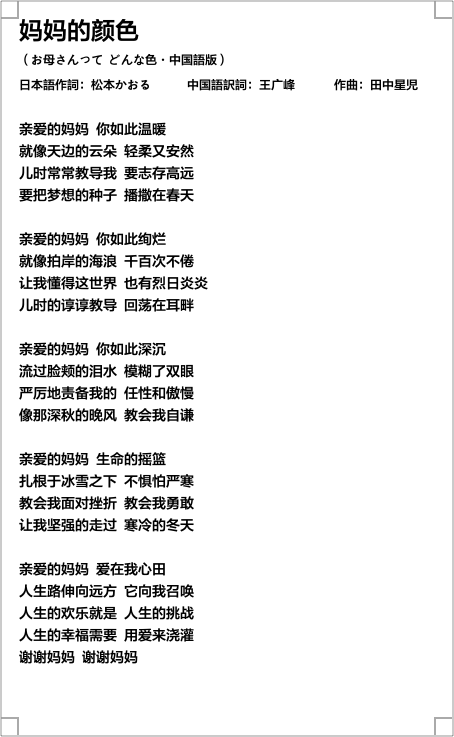
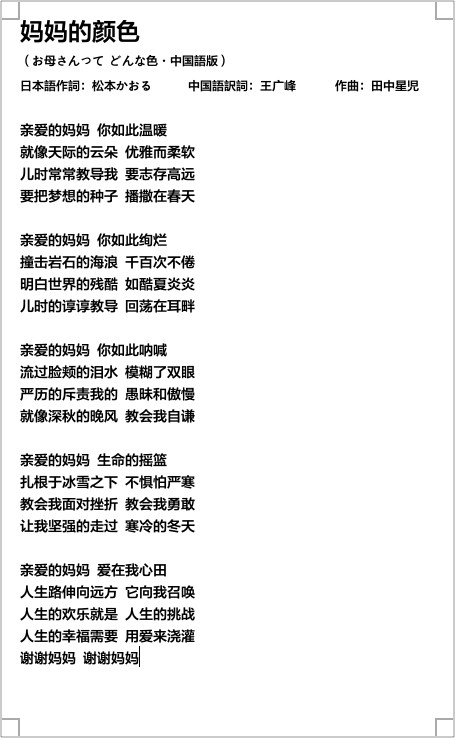
Fix visitor counter and update static assets

diff --git a/_includes/footer.html b/_includes/footer.html
@@ -52,14 +52,14 @@
       style="width: 12px; height: 12px"
     />&nbsp;
     <span id="busuanzi_container_site_uv"
-      ><span id="busuanzi_value_site_uv"></span>次</span
+      ><span id="busuanzi_site_uv">加载中...</span>次</span
     >
     |
     <img
       src="{{ site.baseurl }}/images/config/eye.png"
       style="width: 12px; height: 12px"
     />&nbsp;<span id="busuanzi_container_site_pv"
-      ><span id="busuanzi_value_site_pv"></span>次</span
+      ><span id="busuanzi_site_pv">加载中...</span>次</span
     >
   </div>
 </footer>

diff --git a/_includes/scripts.html b/_includes/scripts.html
@@ -8,5 +8,7 @@
 <script src="{{ "/js/main.js" | prepend: site.baseurl }}"></script>
 <script src="{{ "/js/nav.js" | prepend: site.baseurl }}"></script>
 <script src="{{ "/js/language-switcher.js" | prepend: site.baseurl }}"></script>
-<!-- <script src="{{ "/js/busuanzi.pure.min.js" | prepend: site.baseurl }}"></script> -->
-<script src="//busuanzi.ibruce.info/busuanzi/2.3/busuanzi.pure.mini.js"></script>
+<script
+  src="https://cdn.busuanzi.cc/busuanzi/3.6.9/busuanzi.min.js"
+  defer
+></script>

diff --git a/_layouts/page.html b/_layouts/page.html
@@ -24,7 +24,7 @@ layout: default
     <div class="inner">{{ content }}</div>
     <div class="inner" style="text-align: right; display: none">
       <span id="busuanzi_container_page_pv"
-        >本文已被阅读：<span id="busuanzi_value_page_pv"></span>次</span
+        >本文已被阅读：<span id="busuanzi_page_pv">加载中...</span>次</span
       >
     </div>
   </section>
